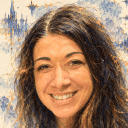
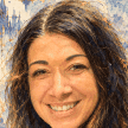
amyportrait1: Amy's portrait cropped tighter
Claude-Session: https://claude.ai/code/session_01RXeukDYt7FCFcmgQHsCH82

diff --git a/engine/menu.js b/engine/menu.js
@@ -9,7 +9,7 @@ const MENU_TABS=[{id:'home',label:'Party'},{id:'items',label:'Items'},{id:'gear'
 // Saving happens from the SAVE button on the map HUD (openSave), which shows just the save popup.
 const PER_CHAR_TABS=['status','gear','stamps'];
 // Character portraits for the roster. Put an image path per id (e.g. tom:'portraits/tom.png?v=4'); empty shows a placeholder.
-const PORTRAITS={tom:'portraits/tom.png?v=15',ellie:'portraits/ellie.png?v=1',amy:'portraits/amy.png?v=11',justin:'portraits/justin.png?v=2',grace:'portraits/grace.png?v=11',deedee:'portraits/deedee.png?v=12',boppy:'portraits/boppy.png?v=11',nara:'portraits/nara.png?v=3',boomie:'portraits/boomie.png?v=1',tnb:'portraits/tnb.png?v=12',rose:'portraits/rose.png?v=11'};
+const PORTRAITS={tom:'portraits/tom.png?v=15',ellie:'portraits/ellie.png?v=1',amy:'portraits/amy.png?v=12',justin:'portraits/justin.png?v=2',grace:'portraits/grace.png?v=11',deedee:'portraits/deedee.png?v=12',boppy:'portraits/boppy.png?v=11',nara:'portraits/nara.png?v=3',boomie:'portraits/boomie.png?v=1',tnb:'portraits/tnb.png?v=12',rose:'portraits/rose.png?v=11'};
 let playTime=0;
 // Gear (F6): the six battle stats. Tools add POW and WARMTH, Outfits HP, GRIT and COOL, Keepsake Charms have perks.
 const GEAR_KEYS=STAT_NAMES;

diff --git a/index.html b/index.html
@@ -1243,7 +1243,7 @@ document.addEventListener('click',function(e){var n=e.target.closest&&e.target.c
 <script src="data/maps-la.js?v=tomhouse3d"></script>
 <script src="data/maps-ch12.js"></script>
 <script src="engine/la.js"></script>
-<script src="engine/menu.js?v=tomportrait1"></script>
+<script src="engine/menu.js?v=amyportrait1"></script>
 <script src="engine/followers.js?v=justin1"></script>
 <script src="engine/shop.js?v=justin2"></script>
 <script src="engine/audio.js"></script>

diff --git a/engine/main.js b/engine/main.js
@@ -83,7 +83,7 @@ startSplash();
 (function(){
   const sp=document.getElementById('splash'); if(!sp) return;
   const d=document.createElement('div');
-  d.textContent='build olivia5';
+  d.textContent='build amyportrait1';
   d.style.cssText='position:absolute;left:8px;bottom:4px;font:10px monospace;color:#fff;opacity:.45;pointer-events:none;z-index:50';
   sp.appendChild(d);
 })();

diff --git a/docs/CHANGES.md b/docs/CHANGES.md
@@ -1,3 +1,9 @@
+## 2026-11-01 (day, 36): Amy's portrait cropped tighter (`amyportrait1`)
+
+- Tom (01:19) asked for Amy cropped in so she reads like the girls. `portraits/amy.png` is re-cut from the existing painting (about 108 of 128 px, face and hair filling the frame like Grace and Rose). The original large painting is not in the repo, so this is an upscale of the 128 px file and a little softer; a re-send of the original would give a sharper one.
+- Amy's `?v=` in the `PORTRAITS` table (engine/menu.js) went to 12 and the menu.js tag to `amyportrait1`.
+- Tested: side by side with Grace, Rose and Justin, `smoke.py`, character menu screenshot. Not played on the phone. Stamp `build amyportrait1`.
+
 ## 2026-11-01 (day, 34): Olivia's 11 ability sheets baked (`olivia5`)
 
 - All 11 painted ability sheets are cut and loaded as sprite keys on `BATTLE_SPRITES.olivia` (59 frames, each with a mirrored `R` copy): `fc_` Fact Check, `sb_` SNACK BAG, `ln_` LivNews Live, `ip_` Inverted Pyramid, `du_` Double Under, `st_` Story Time, `mi_` MICHAEL!, `bb_` Better Than Bobby, `ir_` Is This Real?, `ml_` Marine Layer, `lk_` LACHLAN, NO!. Frame names follow `claude/olivia-ability-prompts.md` (for example `fc_jab`, `du_jump_a`, `mi_yell_2`).
